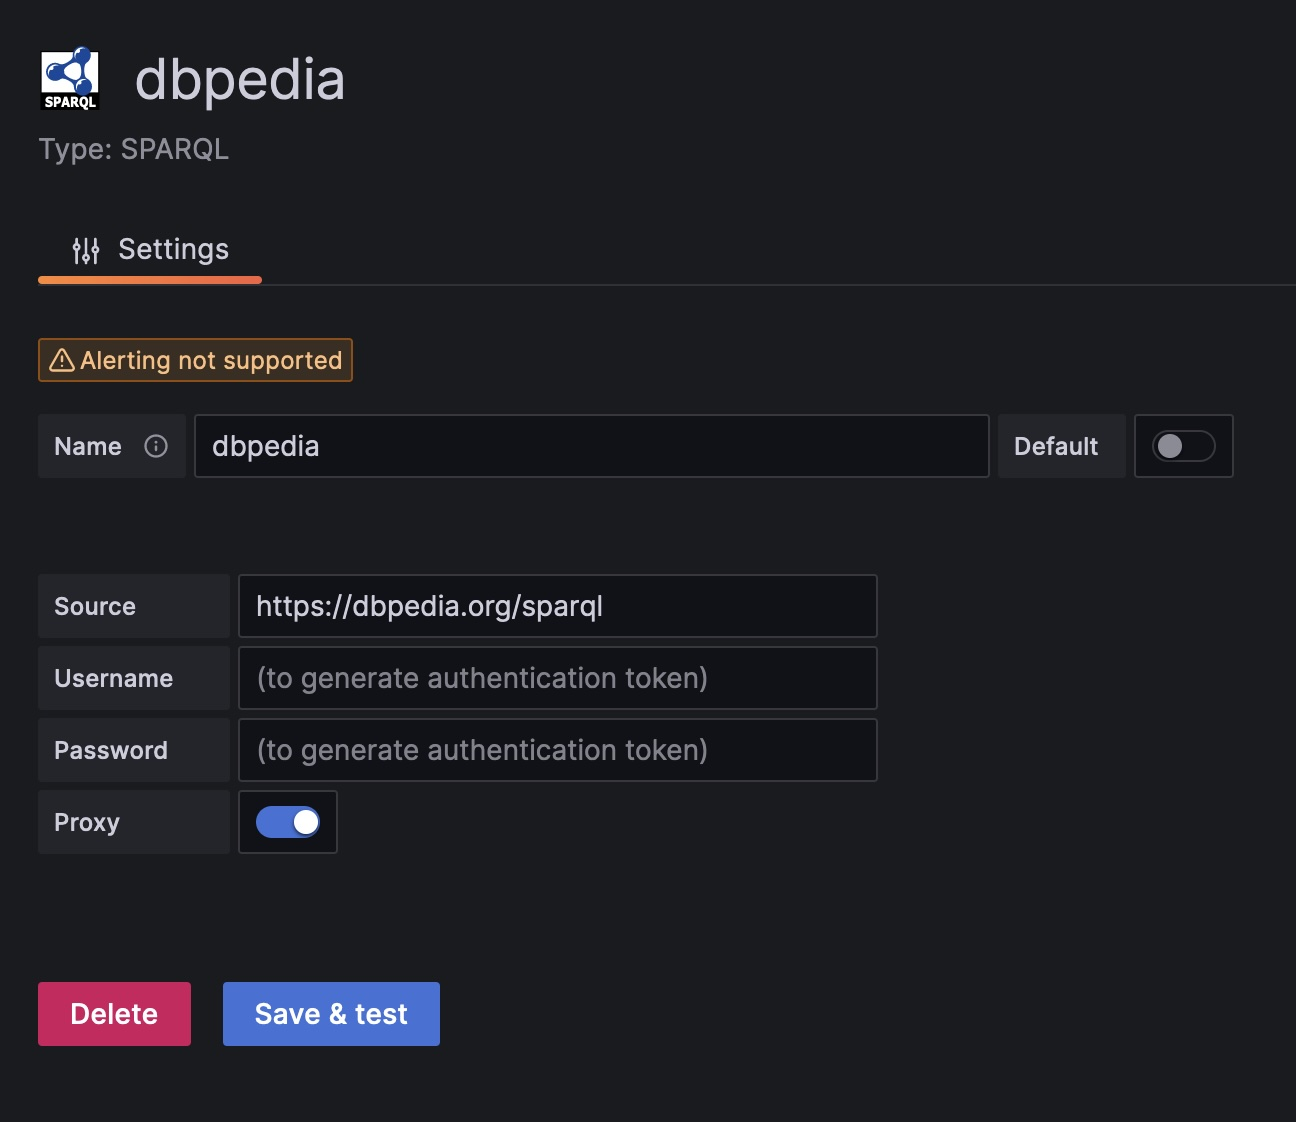
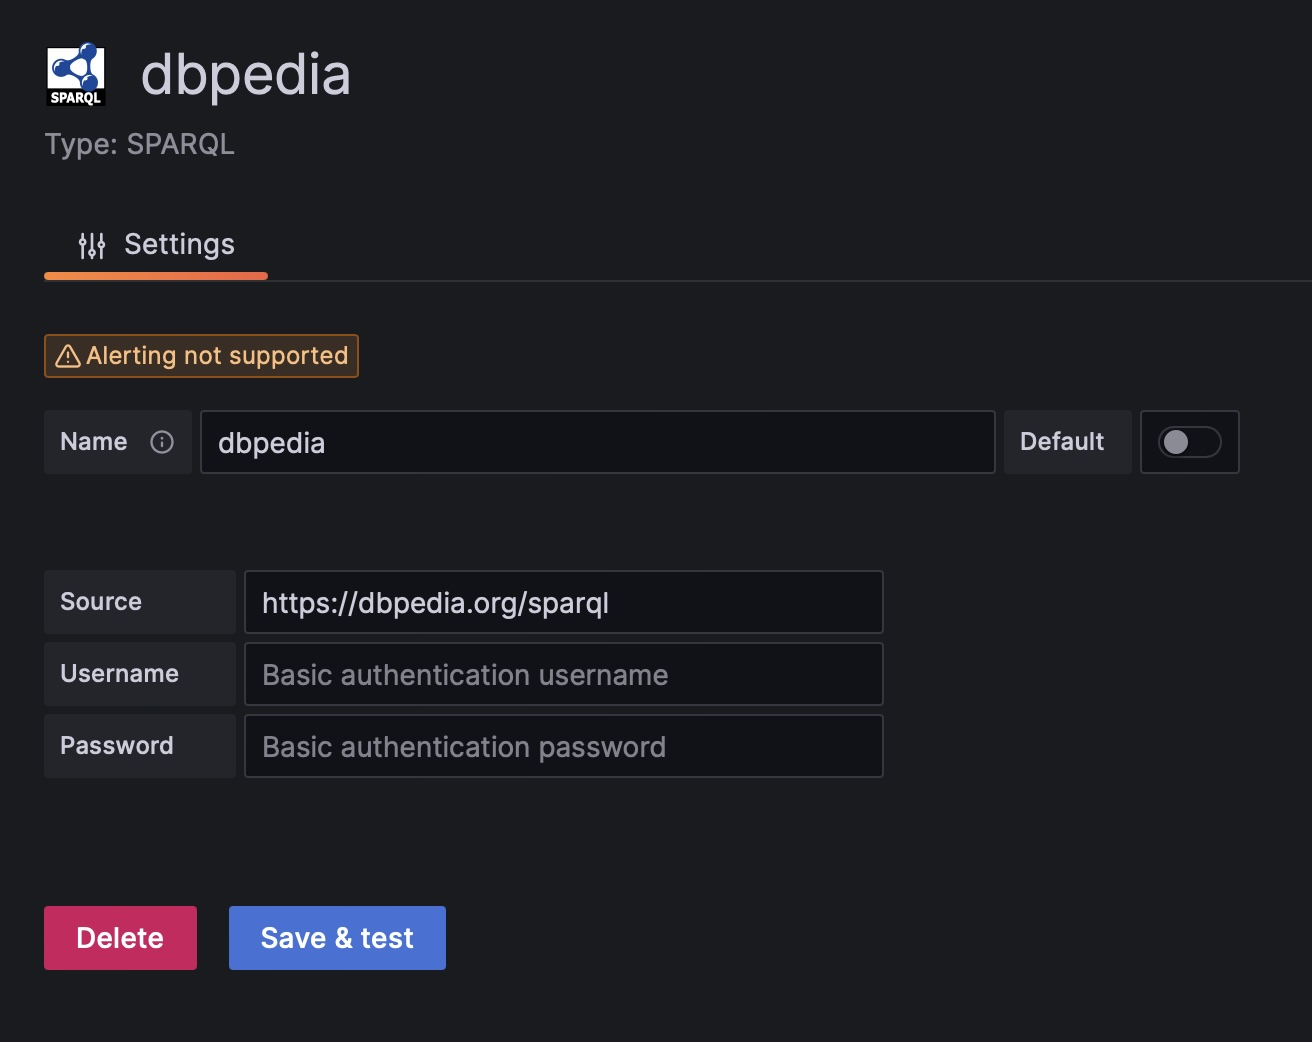
editor, authentication, proxy by default

diff --git a/src/components/ConfigEditor.tsx b/src/components/ConfigEditor.tsx
@@ -2,63 +2,48 @@
 
 import React, { ChangeEvent } from 'react';
 import { Buffer } from 'buffer';
-import { InlineField, Input, InlineSwitch } from '@grafana/ui';
+import { InlineField, Input, SecretInput } from '@grafana/ui';
 import { DataSourcePluginOptionsEditorProps } from '@grafana/data';
 import { MyDataSourceOptions, MySecureJsonData } from '../types';
 
 interface Props extends DataSourcePluginOptionsEditorProps<MyDataSourceOptions> {}
 
 export function ConfigEditor(props: Props) {
-  const { onOptionsChange, options } = props;
-  const onSourceChange = (event: ChangeEvent<HTMLInputElement>) => {
-    const jsonData = {
-      ...options.jsonData,
-      source: event.target.value
-    };
-    onOptionsChange({ ...options, jsonData });
-  };
+  const { options } = props;
+  const { jsonData } = options;
+  const secureJsonData = (options.secureJsonData || {}) as MySecureJsonData;
 
-  const onProxyChange = (event: ChangeEvent<HTMLInputElement>) => {
-    const jsonData = {
-      ...options.jsonData,
-      proxy: event.target.checked
-    };
+  const onOptionsChange = (opts: any) => {
+    if (opts.jsonData?.username && opts.secureJsonData?.password) {
+      opts.secureJsonData.bearer = Buffer.from(opts.jsonData.username + ':' + opts.secureJsonData.password).toString('base64');
+      opts.basicAuth = true;
+      opts.basicAuthUser = opts.jsonData.username;
+    }
+    props.onOptionsChange(opts);
+  }
+
+  const onSourceChange = (event: ChangeEvent<HTMLInputElement>) => {
+    const jsonData = { ...options.jsonData, source: event.target.value };
     onOptionsChange({ ...options, jsonData });
   };
 
   const onUsernameChange = (event: ChangeEvent<HTMLInputElement>) => {
-    secureJsonData.username = event.target.value;
-    const jsonData = {
-      ...options.jsonData,
-      credentials: generateCredentials(secureJsonData.username, secureJsonData.password)
-    };
-    onOptionsChange({ ...options, jsonData, secureJsonData });
+    const jsonData = { ...options.jsonData, username: event.target.value };
+    onOptionsChange({ ...options, jsonData });
   };
 
   const onPasswordChange = (event: ChangeEvent<HTMLInputElement>) => {
+    const secureJsonData = (options.secureJsonData || {}) as MySecureJsonData;
     secureJsonData.password = event.target.value;
-    const jsonData = {
-      ...options.jsonData,
-      credentials: generateCredentials(secureJsonData.username, secureJsonData.password)
-    };
-    onOptionsChange({ ...options, jsonData, secureJsonData });
+    onOptionsChange({ ...options, secureJsonData });
   };
-
-  const generateCredentials = (username?: string, password?: string) => {
-    const u = username? username.trim() : '';
-    const p = password? password.trim() : '';
-    return Buffer.from(u + ':' + p).toString('base64');
-  }
-
-  const { jsonData } = options;
-  const secureJsonData = (options.secureJsonData || {}) as MySecureJsonData;
 
   return (
     <div className="gf-form-group">
       <InlineField label="Source" labelWidth={12}>
         <Input
           onChange={onSourceChange}
-          value={jsonData.source || ''}
+          value={jsonData?.source || ''}
           placeholder="SPARQL endpoint URL"
           width={40}
         />
@@ -66,24 +51,19 @@ export function ConfigEditor(props: Props) {
       <InlineField label="Username" labelWidth={12}>
         <Input
           onChange={onUsernameChange}
-          value={secureJsonData.username || ''}
-          placeholder="(to generate authentication token)"
+          value={jsonData?.username || ''}
+          placeholder="Basic authentication username"
           width={40}
         />
       </InlineField>
       <InlineField label="Password" labelWidth={12}>
-        <Input
+        <SecretInput
           onChange={onPasswordChange}
-          value={secureJsonData.password || ''}
-          placeholder="(to generate authentication token)"
+          value={secureJsonData?.password || ''}
+          placeholder="Basic authentication password"
           width={40}
-        />
-      </InlineField>
-      <InlineField label="Proxy" labelWidth={12}>
-        <InlineSwitch
-          onChange={onProxyChange}
-          value={jsonData.proxy ?? false}
-          transparent={false}
+          isConfigured={false}
+          onReset={() => {}}
         />
       </InlineField>
     </div>

diff --git a/src/components/QueryEditor.tsx b/src/components/QueryEditor.tsx
@@ -1,27 +1,47 @@
-import React, { ChangeEvent } from 'react';
-import { InlineField, TextArea } from '@grafana/ui';
-import { QueryEditorProps } from '@grafana/data';
+import React, { useCallback } from 'react';
+import { css } from '@emotion/css';
+import { CodeEditor, useStyles2 } from '@grafana/ui';
+import { QueryEditorProps, GrafanaTheme2 } from '@grafana/data';
 import { DataSource } from '../datasource';
 import { MyDataSourceOptions, MyQuery } from '../types';
 
-import './style.css';
-
 type Props = QueryEditorProps<DataSource, MyQuery, MyDataSourceOptions>;
 
-export function QueryEditor({ query, onChange, onRunQuery }: Props) {
-  const onKeyDown = (event: any) => {
-    if (event.key === 'Tab') {
-      const textarea = event.target;
-      const start = textarea.selectionStart;
-      const end = textarea.selectionEnd;
-      textarea.value = textarea.value.substring(0, start) + '   ' + textarea.value.substring(end);
-      textarea.focus();
-      event.preventDefault()
-    }
-  };
-  const onQueryTextChange = (event: ChangeEvent<HTMLTextAreaElement>) => {
-    onChange({ ...query, queryText: event.target.value });
-  };
+type ChangeOptions<T> = {
+  propertyName: keyof T;
+  runQuery: boolean;
+};
+
+type OnChangeType = (value: string) => void;
+
+export function useChangeString(props: Props, options: ChangeOptions<MyQuery>): OnChangeType {
+  const { onChange, onRunQuery, query } = props;
+  const { propertyName, runQuery } = options;
+
+  return useCallback(
+    (value: string) => {
+      if (!value) {
+        return;
+      }
+
+      onChange({
+        ...query,
+        [propertyName]: value,
+      });
+
+      if (runQuery) {
+        onRunQuery();
+      }
+    },
+    [onChange, onRunQuery, query, propertyName, runQuery]
+  );
+}
+
+export function QueryEditor(props: Props) {
+  const { query, } = props;
+  const styles = useStyles2(getStyles);
+
+  const onQueryTextChange = useChangeString(props, { propertyName: 'queryText', runQuery: true });
 
   const { queryText } = query;
   const numberOfLines = queryText? queryText.split('\n').length + 1 : 1;
@@ -32,15 +52,22 @@ export function QueryEditor({ query, onChange, onRunQuery }: Props) {
   }
 
   return (
-    <div className="gf-form">
-      <InlineField label="SPARQL query" labelWidth={16}>
-        <div className="editor">
-          <div className="line-numbers">
-            { lines.map((i) => (<span key={i}></span>)) }
-          </div>
-          <TextArea className="lined" cols={75} onKeyDown={onKeyDown} onChange={onQueryTextChange} value={queryText || ''}/>
-        </div>
-      </InlineField>
+    <div className={styles.editor}>
+      <CodeEditor
+        height="200px"
+        showLineNumbers={true}
+        language="sparql"
+        onBlur={onQueryTextChange}
+        value={query.queryText || ''}
+      />
     </div>
   );
+}
+
+function getStyles(theme: GrafanaTheme2) {
+  return {
+    editor: css`
+      margin: ${theme.spacing(0, 0.5, 0.5, 0)};
+    `,
+  };
 }

diff --git a/src/datasource.ts b/src/datasource.ts
@@ -20,8 +20,6 @@ import { MyQuery, MyDataSourceOptions } from './types';
 export class DataSource extends DataSourceApi<MyQuery, MyDataSourceOptions> {
   url: string;
   source?: string;
-  credentials?: string;
-  proxy: boolean;
   context: any;
   engine: QueryEngine;
 
@@ -30,24 +28,10 @@ export class DataSource extends DataSourceApi<MyQuery, MyDataSourceOptions> {
 
     this.url = instanceSettings.url!;
     this.source = instanceSettings.jsonData.source;
-    this.credentials = instanceSettings.jsonData.credentials;
-    this.proxy = instanceSettings.jsonData.proxy;
     this.context = { sources: [ { type: 'sparql', value: this.source } ], fetch: async (input: any, options: any) => {
-      if (this.credentials) {
-        if (!options) { options = {}; }
-        if (!options.headers) { options.headers = {} }
-        if (!options.headers.authorization) { options.headers.authorization = 'Basic ' + this.credentials }
-      }
-      if (this.proxy) {
-        console.log('server-side request');
-        const response = getBackendSrv().fetch({ method: 'POST', url: this.url + '/source', headers: options?.headers || {}, data: options.body });
-        const value = await lastValueFrom(response);
-        return new Response(JSON.stringify(value.data), { headers: value.headers });
-      }
-      else {
-        console.log('client-side request');
-        return fetch(input, options);
-      }
+      const response = getBackendSrv().fetch({ method: 'POST', url: this.url + '/source', headers: options?.headers || {}, data: options.body });
+      const value = await lastValueFrom(response);
+      return new Response(JSON.stringify(value.data), { headers: value.headers });
     }};
     this.engine = new QueryEngine();
   }
@@ -83,7 +67,6 @@ export class DataSource extends DataSourceApi<MyQuery, MyDataSourceOptions> {
           });
         }
         catch (err) {
-          console.log(err);
           throw err;
           return { data };
         }

diff --git a/src/types.ts b/src/types.ts
@@ -15,14 +15,13 @@ export const DEFAULT_QUERY: Partial<MyQuery> = {
  */
 export interface MyDataSourceOptions extends DataSourceJsonData {
   source?: string;
-  credentials?: string;
-  proxy: boolean;
+  username?: string;
 }
 
 /**
  * Value that is used in the backend, but never sent over HTTP to the frontend
  */
 export interface MySecureJsonData {
-  username?: string;
   password?: string;
+  bearer?: string;
 }

diff --git a/src/README.md b/src/README.md
@@ -1,50 +1,17 @@
-<!-- This README file is going to be the one displayed on the Grafana.com website for your plugin. Uncomment and replace the content here before publishing.
+# Grafana SPARQL Datasource Plugin
 
-Remove any remaining comments before publishing as these may be displayed on Grafana.com -->
-# Sparql
+![Catalog](https://img.shields.io/badge/dynamic/json?logo=grafana&query=$.version&url=https://grafana.com/api/plugins/flandersmake-sparql-datasource&label=catalog&prefix=v&color=F47A20)
+![Downloads](https://img.shields.io/badge/dynamic/json?logo=grafana&query=$.downloads&url=https://grafana.com/api/plugins/flandersmake-sparql-datasource&label=downloads&color=F47A20)
 
-Data source for sparql endpoints
+This datasource plugin adds support for [SPARQL](https://www.w3.org/TR/sparql11-query/) endpoints to [Grafana](https://grafana.com/). Under the hood, it uses the [Comunica](https://comunica.dev/) framework.
 
-<!-- To help maximize the impact of your README and improve usability for users, we propose the following loose structure:
+## Screenshots
+### Configuration
+![Auto Layout](https://github.com/Flanders-Make-vzw/grafana-sparql-datasource/blob/main/src/img/screenshot2.jpg)
 
-**BEFORE YOU BEGIN**
-- Ensure all links are absolute URLs so that they will work when the README is displayed within Grafana and Grafana.com
-- Be inspired ✨ 
-  - [grafana-polystat-panel](https://github.com/grafana/grafana-polystat-panel)
-  - [volkovlabs-variable-panel](https://github.com/volkovlabs/volkovlabs-variable-panel)
+Specify the url of a SPARQL endpoint and optional credentials for basic HTTP authentication.
 
-**ADD SOME BADGES**
+### Editor
+![Auto Layout](https://github.com/Flanders-Make-vzw/grafana-sparql-datasource/blob/main/src/img/screenshot1.jpg)
 
-Badges convey useful information at a glance for users whether in the Catalog or viewing the source code. You can use the generator on [Shields.io](https://shields.io/badges/dynamic-json-badge) together with the Grafana.com API 
-to create dynamic badges that update automatically when you publish a new version to the marketplace.
-
-- For the logo field use 'grafana'.
-- Examples (label: query)
-  - Downloads: $.downloads
-  - Catalog Version: $.version
-  - Grafana Dependency: $.grafanaDependency
-  - Signature Type: $.versionSignatureType
-
-Full example: ![Dynamic JSON Badge](https://img.shields.io/badge/dynamic/json?logo=grafana&query=$.version&url=https://grafana.com/api/plugins/grafana-polystat-panel&label=Marketplace&prefix=v&color=F47A20)
-
-Consider other [badges](https://shields.io/badges) as you feel appropriate for your project.
-
-## Overview / Introduction
-Provide one or more paragraphs as an introduction to your plugin to help users understand why they should use it.  
-
-Consider including screenshots:
-- in [plugin.json](https://grafana.com/docs/grafana/latest/developers/plugins/metadata/#info) include them as relative links.
-- in the README ensure they are absolute URLs.
-
-## Requirements
-List any requirements or dependencies they may need to run the plugin.
-
-## Getting Started
-Provide a quick start on how to configure and use the plugin.
-
-## Documentation
-If your project has dedicated documentation available for users, provide links here. For help in following Grafana's style recommendations for technical documentation, refer to our [Writer's Toolkit](https://grafana.com/docs/writers-toolkit/).
-
-## Contributing
-Do you want folks to contribute to the plugin or provide feedback through specific means? If so, tell them how!
--->
+Collect data via SPARQL queries.
